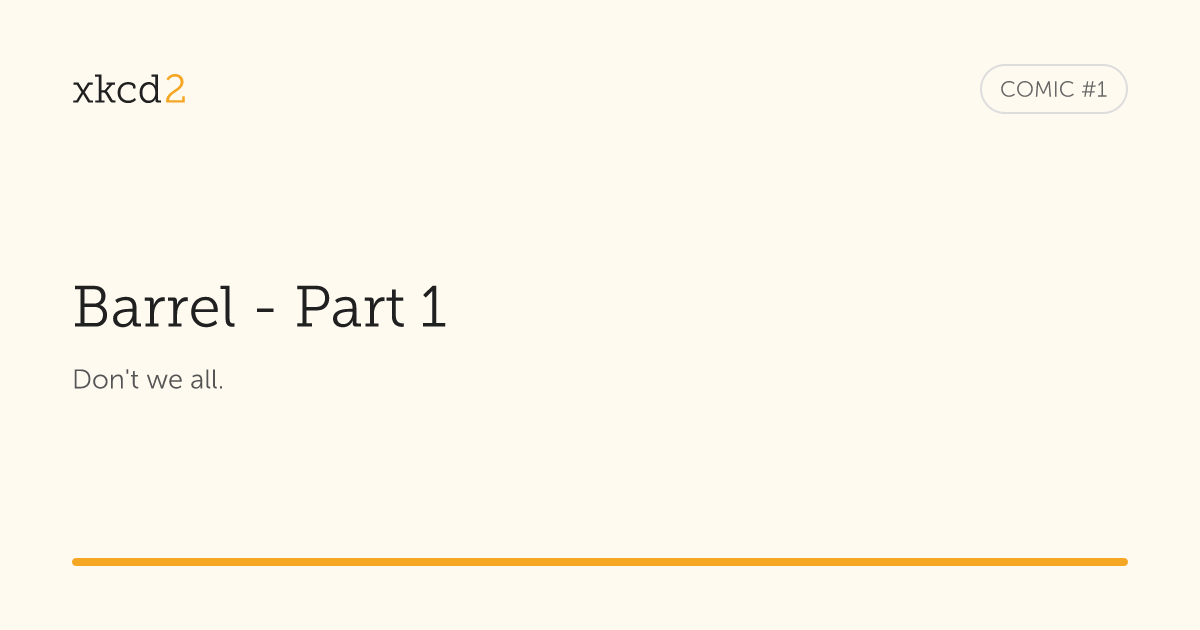
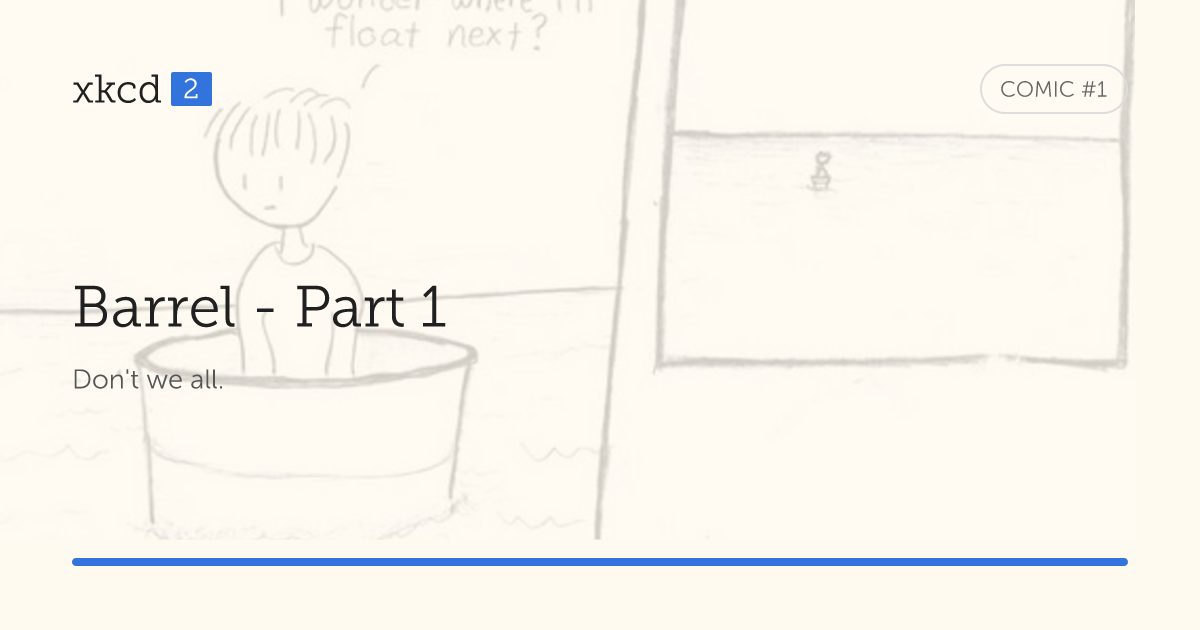
feat(og): add comic backgrounds and site colors

diff --git a/src/routes/og/[id].ts b/src/routes/og/[id].ts
@@ -5,6 +5,13 @@ import { getOgFonts } from "../../utils/og-fonts";
 import { getCachedComic } from "../../utils/xkcd-cache";
 
 const COMIC_IMAGE_PATTERN = /^(\d+)\.png$/;
+const ACCENT_COLOR = "hsl(217, 71%, 53%)";
+const COMIC_IMAGE_TYPES = new Set([
+	"image/png",
+	"image/jpeg",
+	"image/gif",
+	"image/svg+xml",
+]);
 
 export default defineEventHandler(async (event) => {
 	const match = getRouterParam(event, "id")?.match(COMIC_IMAGE_PATTERN);
@@ -17,7 +24,29 @@ export default defineEventHandler(async (event) => {
 	}
 
 	const { comic } = await getCachedComic(match[1]);
-	const fonts = await getOgFonts();
+	const [fonts, artworkResponse] = await Promise.all([
+		getOgFonts(),
+		fetch(comic.img, { signal: AbortSignal.timeout(10_000) }),
+	]);
+	if (!artworkResponse.ok) {
+		throw createError({
+			statusCode: 502,
+			statusMessage: "Failed to load comic artwork",
+		});
+	}
+	const contentType = artworkResponse.headers
+		.get("content-type")
+		?.split(";")[0]
+		.trim();
+	if (!(contentType && COMIC_IMAGE_TYPES.has(contentType))) {
+		throw createError({
+			statusCode: 502,
+			statusMessage: "Unsupported comic artwork format",
+		});
+	}
+	const artwork = `data:${contentType};base64,${Buffer.from(
+		await artworkResponse.arrayBuffer(),
+	).toString("base64")}`;
 
 	const image = createElement(
 		"div",
@@ -25,6 +54,8 @@ export default defineEventHandler(async (event) => {
 			style: {
 				width: "100%",
 				height: "100%",
+				position: "relative",
+				overflow: "hidden",
 				display: "flex",
 				flexDirection: "column",
 				justifyContent: "space-between",
@@ -35,6 +66,20 @@ export default defineEventHandler(async (event) => {
 				fontWeight: 400,
 			},
 		},
+		createElement("img", {
+			src: artwork,
+			alt: "",
+			style: {
+				position: "absolute",
+				top: 0,
+				left: 0,
+				width: "100%",
+				height: "100%",
+				objectFit: "cover",
+				transform: "scale(1.15)",
+				opacity: 0.18,
+			},
+		}),
 		createElement(
 			"div",
 			{
@@ -49,12 +94,26 @@ export default defineEventHandler(async (event) => {
 				{
 					style: {
 						display: "flex",
+						alignItems: "center",
 						fontSize: 40,
 						fontFamily: "museo-slab",
 					},
 				},
 				createElement("span", {}, "xkcd"),
-				createElement("span", { style: { color: "#f5a623" } }, "2"),
+				createElement(
+					"span",
+					{
+						style: {
+							color: "#fff",
+							backgroundColor: ACCENT_COLOR,
+							borderRadius: 2,
+							fontSize: 28,
+							marginLeft: 7,
+							padding: "0 12px",
+						},
+					},
+					"2",
+				),
 			),
 			createElement(
 				"div",
@@ -108,7 +167,7 @@ export default defineEventHandler(async (event) => {
 			style: {
 				display: "flex",
 				height: 8,
-				backgroundColor: "#f5a623",
+				backgroundColor: ACCENT_COLOR,
 				borderRadius: 4,
 			},
 		}),

diff --git a/README.md b/README.md
@@ -12,6 +12,10 @@ and Museo Sans for the caption and comic number. Font files are fetched on the
 first image request and reused for later requests in the same server process.
 The server needs access to `use.typekit.net` to load them.
 
+The logo badge and accent bar use the site's blue.
+Each image uses a zoomed crop of its comic as a faint background so the title and
+caption stay readable. The server also needs access to the comic image host.
+
 Example for [comic #1](https://xkcd.com/1/), with the `xkcd2` text logo:
 
 ![Open Graph image for Barrel - Part 1](docs/og-example.png)
@@ -21,4 +25,5 @@ The comic title and caption are by Randall Munroe, used under
 
 Run `pnpm test` to check the page metadata and image responses against a Vercel
 production build. The tests use an in-memory comic cache and do not need Vercel KV
-credentials or access to the xkcd API. Adobe Fonts requests use local fixtures.
+credentials or access to the xkcd API. Adobe Fonts and comic artwork requests use
+local fixtures.
